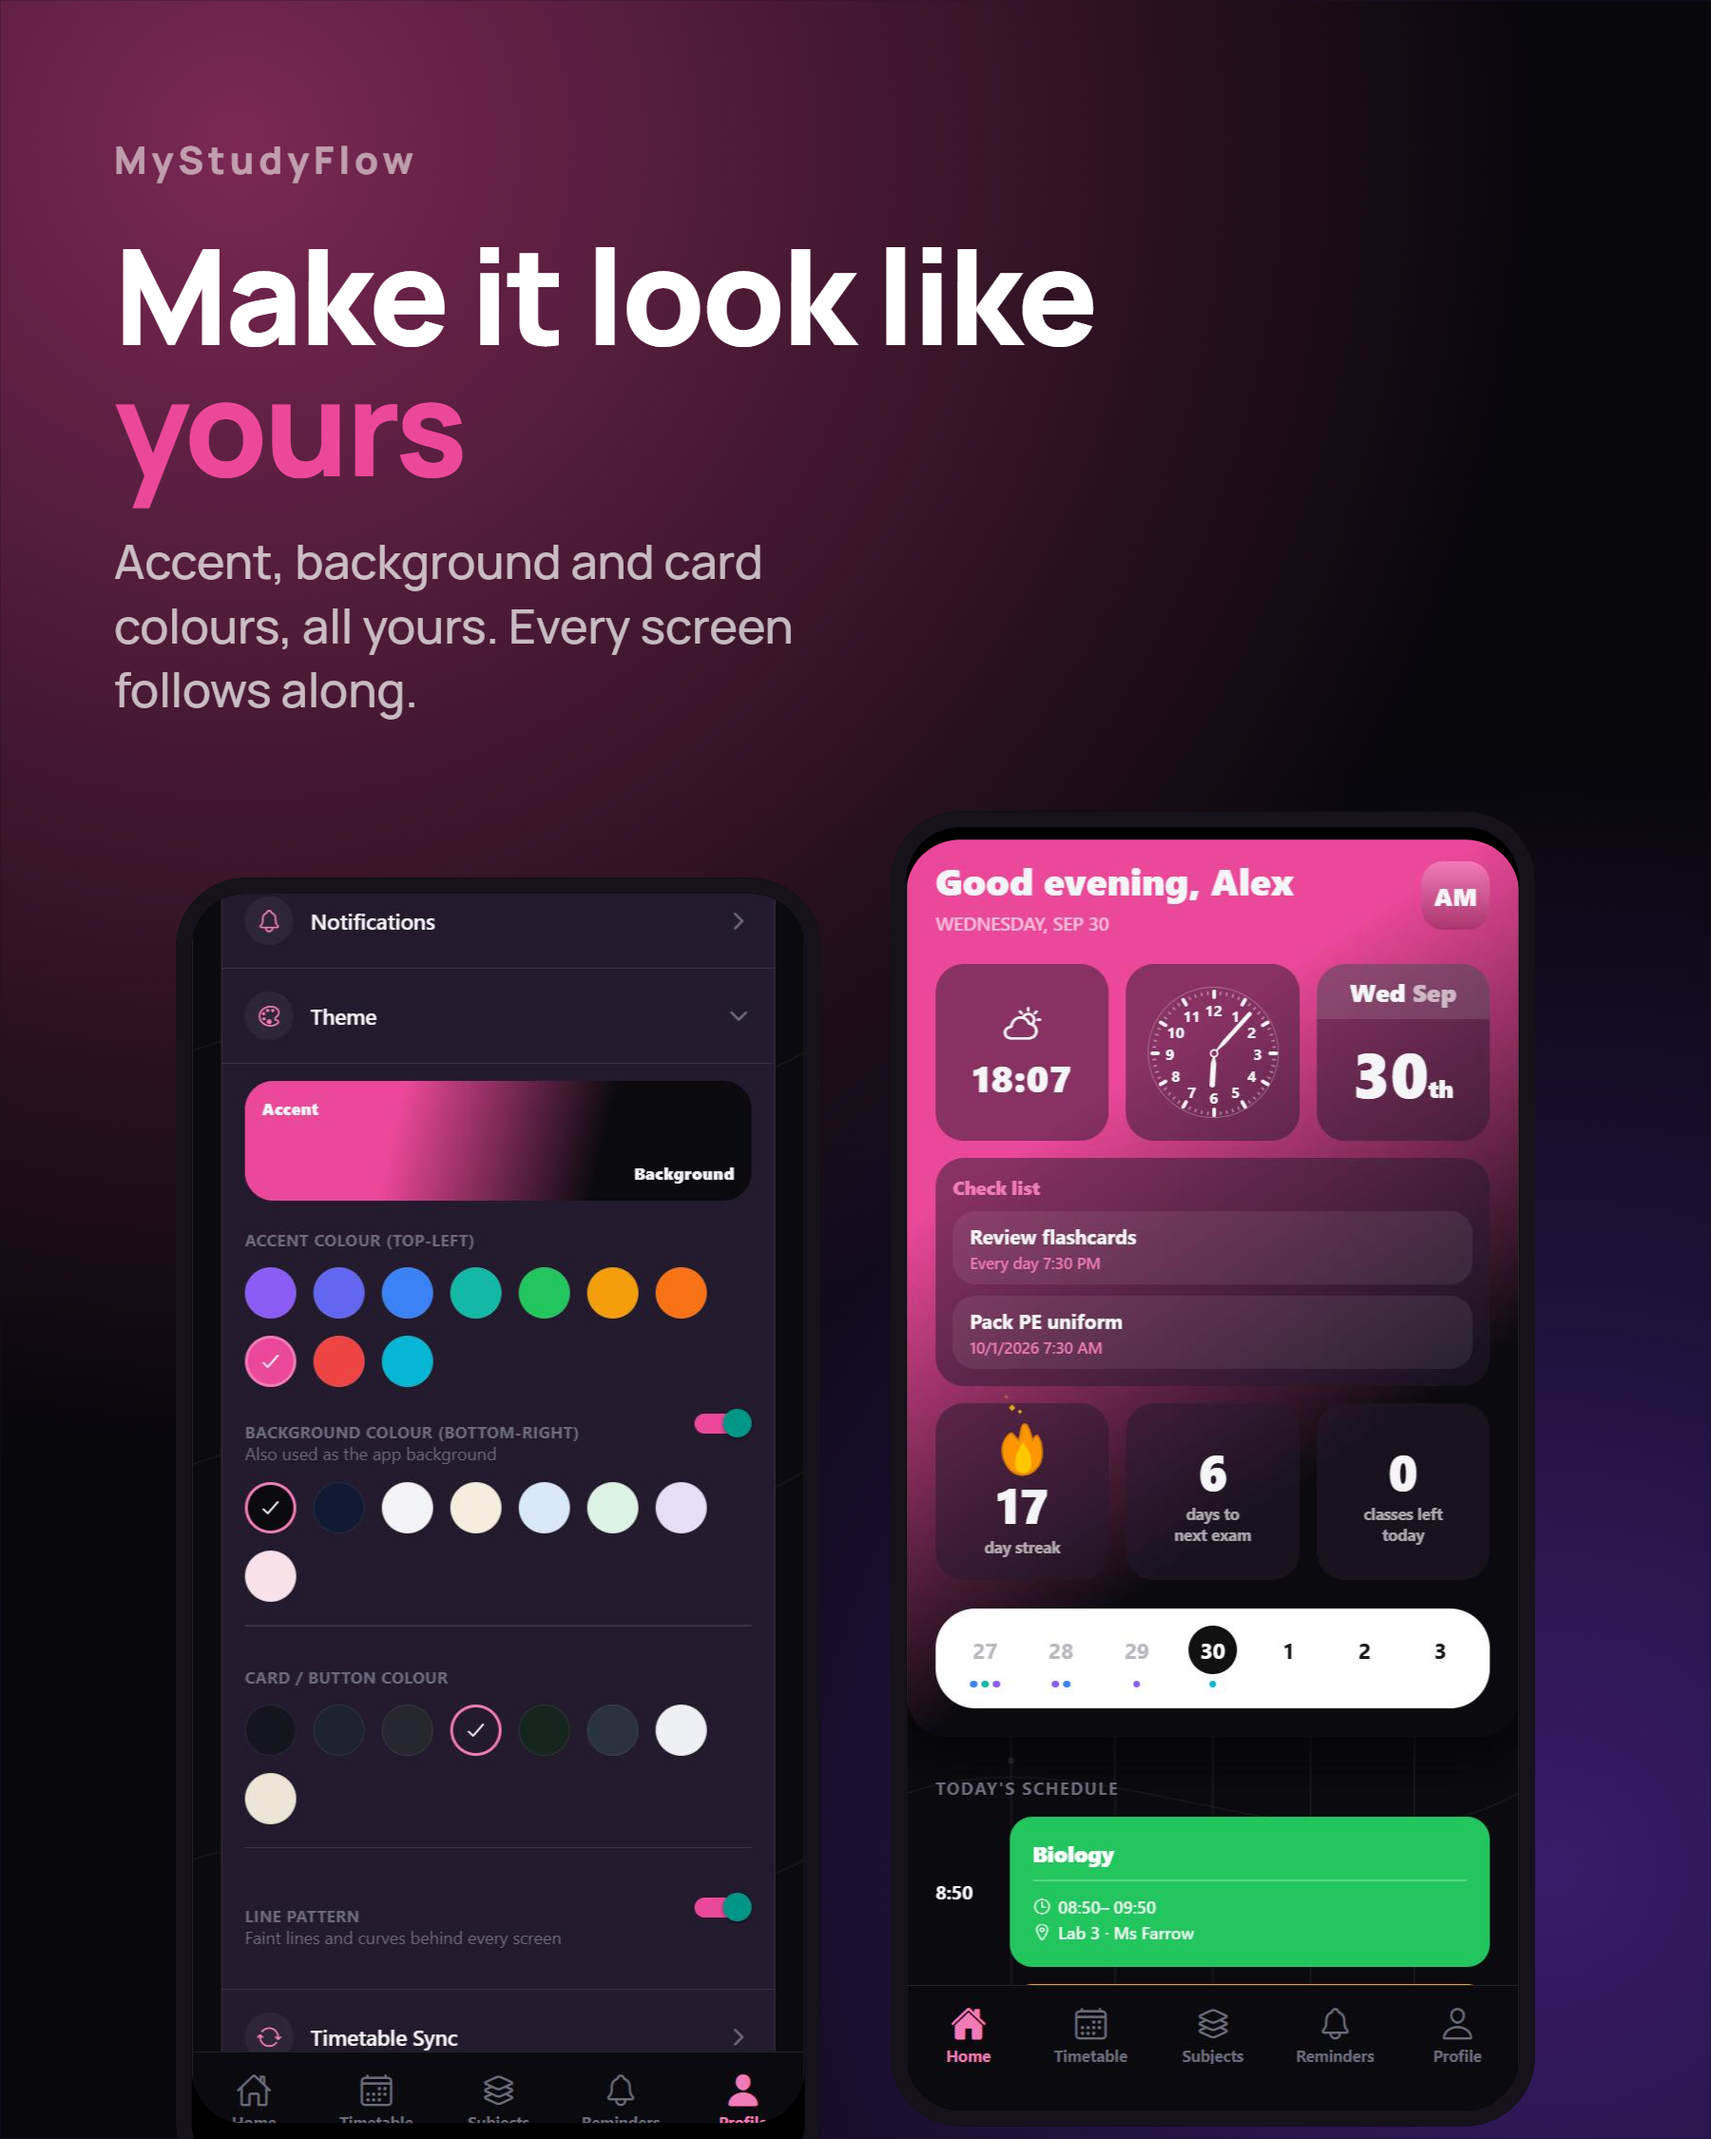
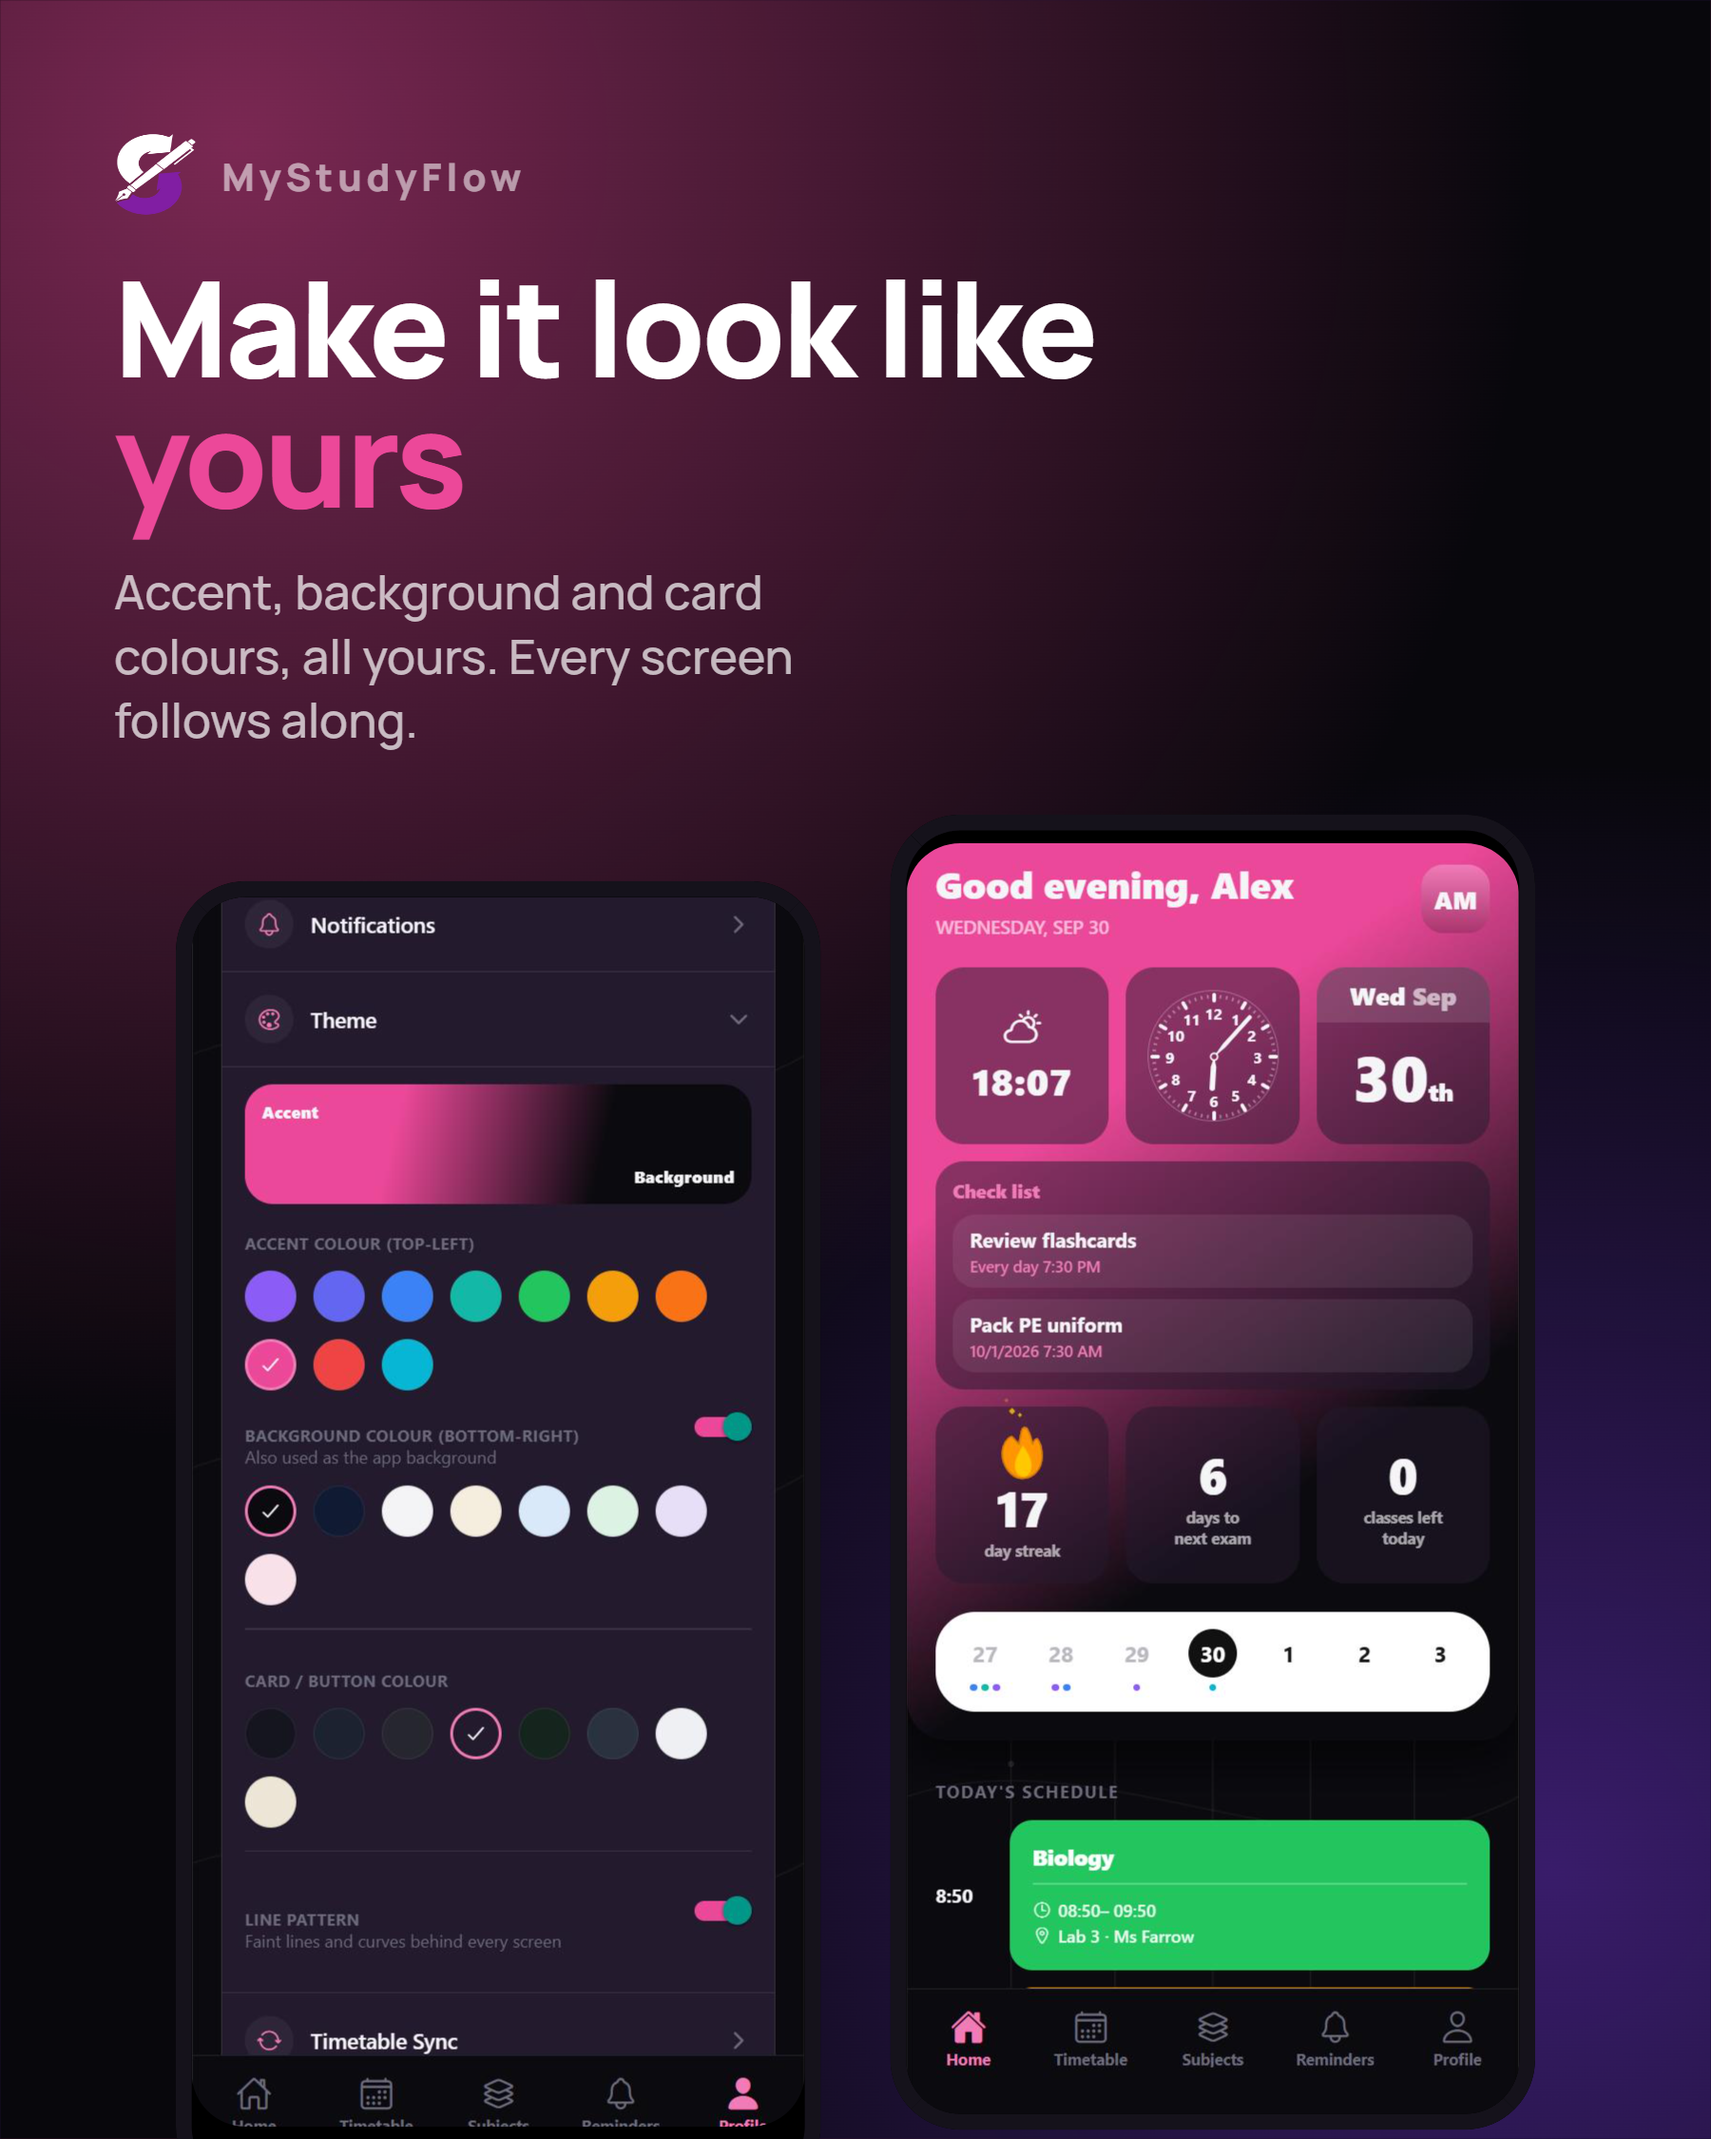
Put the new mark on the promo cards
The cards carried the name set as text and no mark at all, so the logo had
nowhere to appear in any of the shipped media. It now sits beside the name,
at full strength while the name stays dimmed: the mark is the thing worth
recognising and the name reads as a caption to it.

All six re-exported through the page's own rasteriser, as the README says to.
The mark is written into the promo folder by install-logo.py rather than
being reached for out of the web root, since the card template is served
from that folder as its root.

diff --git a/assets/promo/promo.html b/assets/promo/promo.html
@@ -59,11 +59,23 @@
   .card > * { position: relative; z-index: 1; }
 
   .wordmark {
+    display: flex;
+    align-items: center;
+    gap: 16px;
     font-size: 24px;
     font-weight: 800;
     letter-spacing: 3px;
     color: rgba(255,255,255,0.55);
     margin-bottom: 28px;
+  }
+
+  /* The mark runs at full strength while the name beside it stays dimmed:
+     the logo is the thing worth recognising, the name is a caption to it. */
+  .wordmark img {
+    width: 52px;
+    height: 52px;
+    object-fit: contain;
+    display: block;
   }
 
   h1 {
@@ -191,7 +203,7 @@
 
   document.getElementById('root').innerHTML = `
     <div class="card">
-      <div class="wordmark">MyStudyFlow</div>
+      <div class="wordmark"><img src="logo-mark.png" alt="" /><span>MyStudyFlow</span></div>
       <h1>${card.title}</h1>
       <p class="sub">${card.sub}</p>
       <div class="stage ${card.shots.length > 1 ? 'pair' : 'single'}">

diff --git a/scripts/install-logo.py b/scripts/install-logo.py
@@ -166,6 +166,13 @@ def main():
     flat[..., :3] = 255
     save('android-icon-monochrome.png', fit(downsize(flat, 1024), 432, ANDROID_SAFE))
 
+    # The promo card template is served from its own folder, so it gets its
+    # own copy of the mark rather than reaching up out of the web root.
+    promo = downsize(dark_mark, 256)
+    promo = promo.crop(promo.split()[3].getbbox())
+    promo.save(os.path.join(ASSETS, 'promo', 'logo-mark.png'))
+    wrote.append(f'promo/logo-mark.png {promo.size[0]}x{promo.size[1]} {promo.mode}')
+
     for line in wrote:
         print('  ' + line)
 
